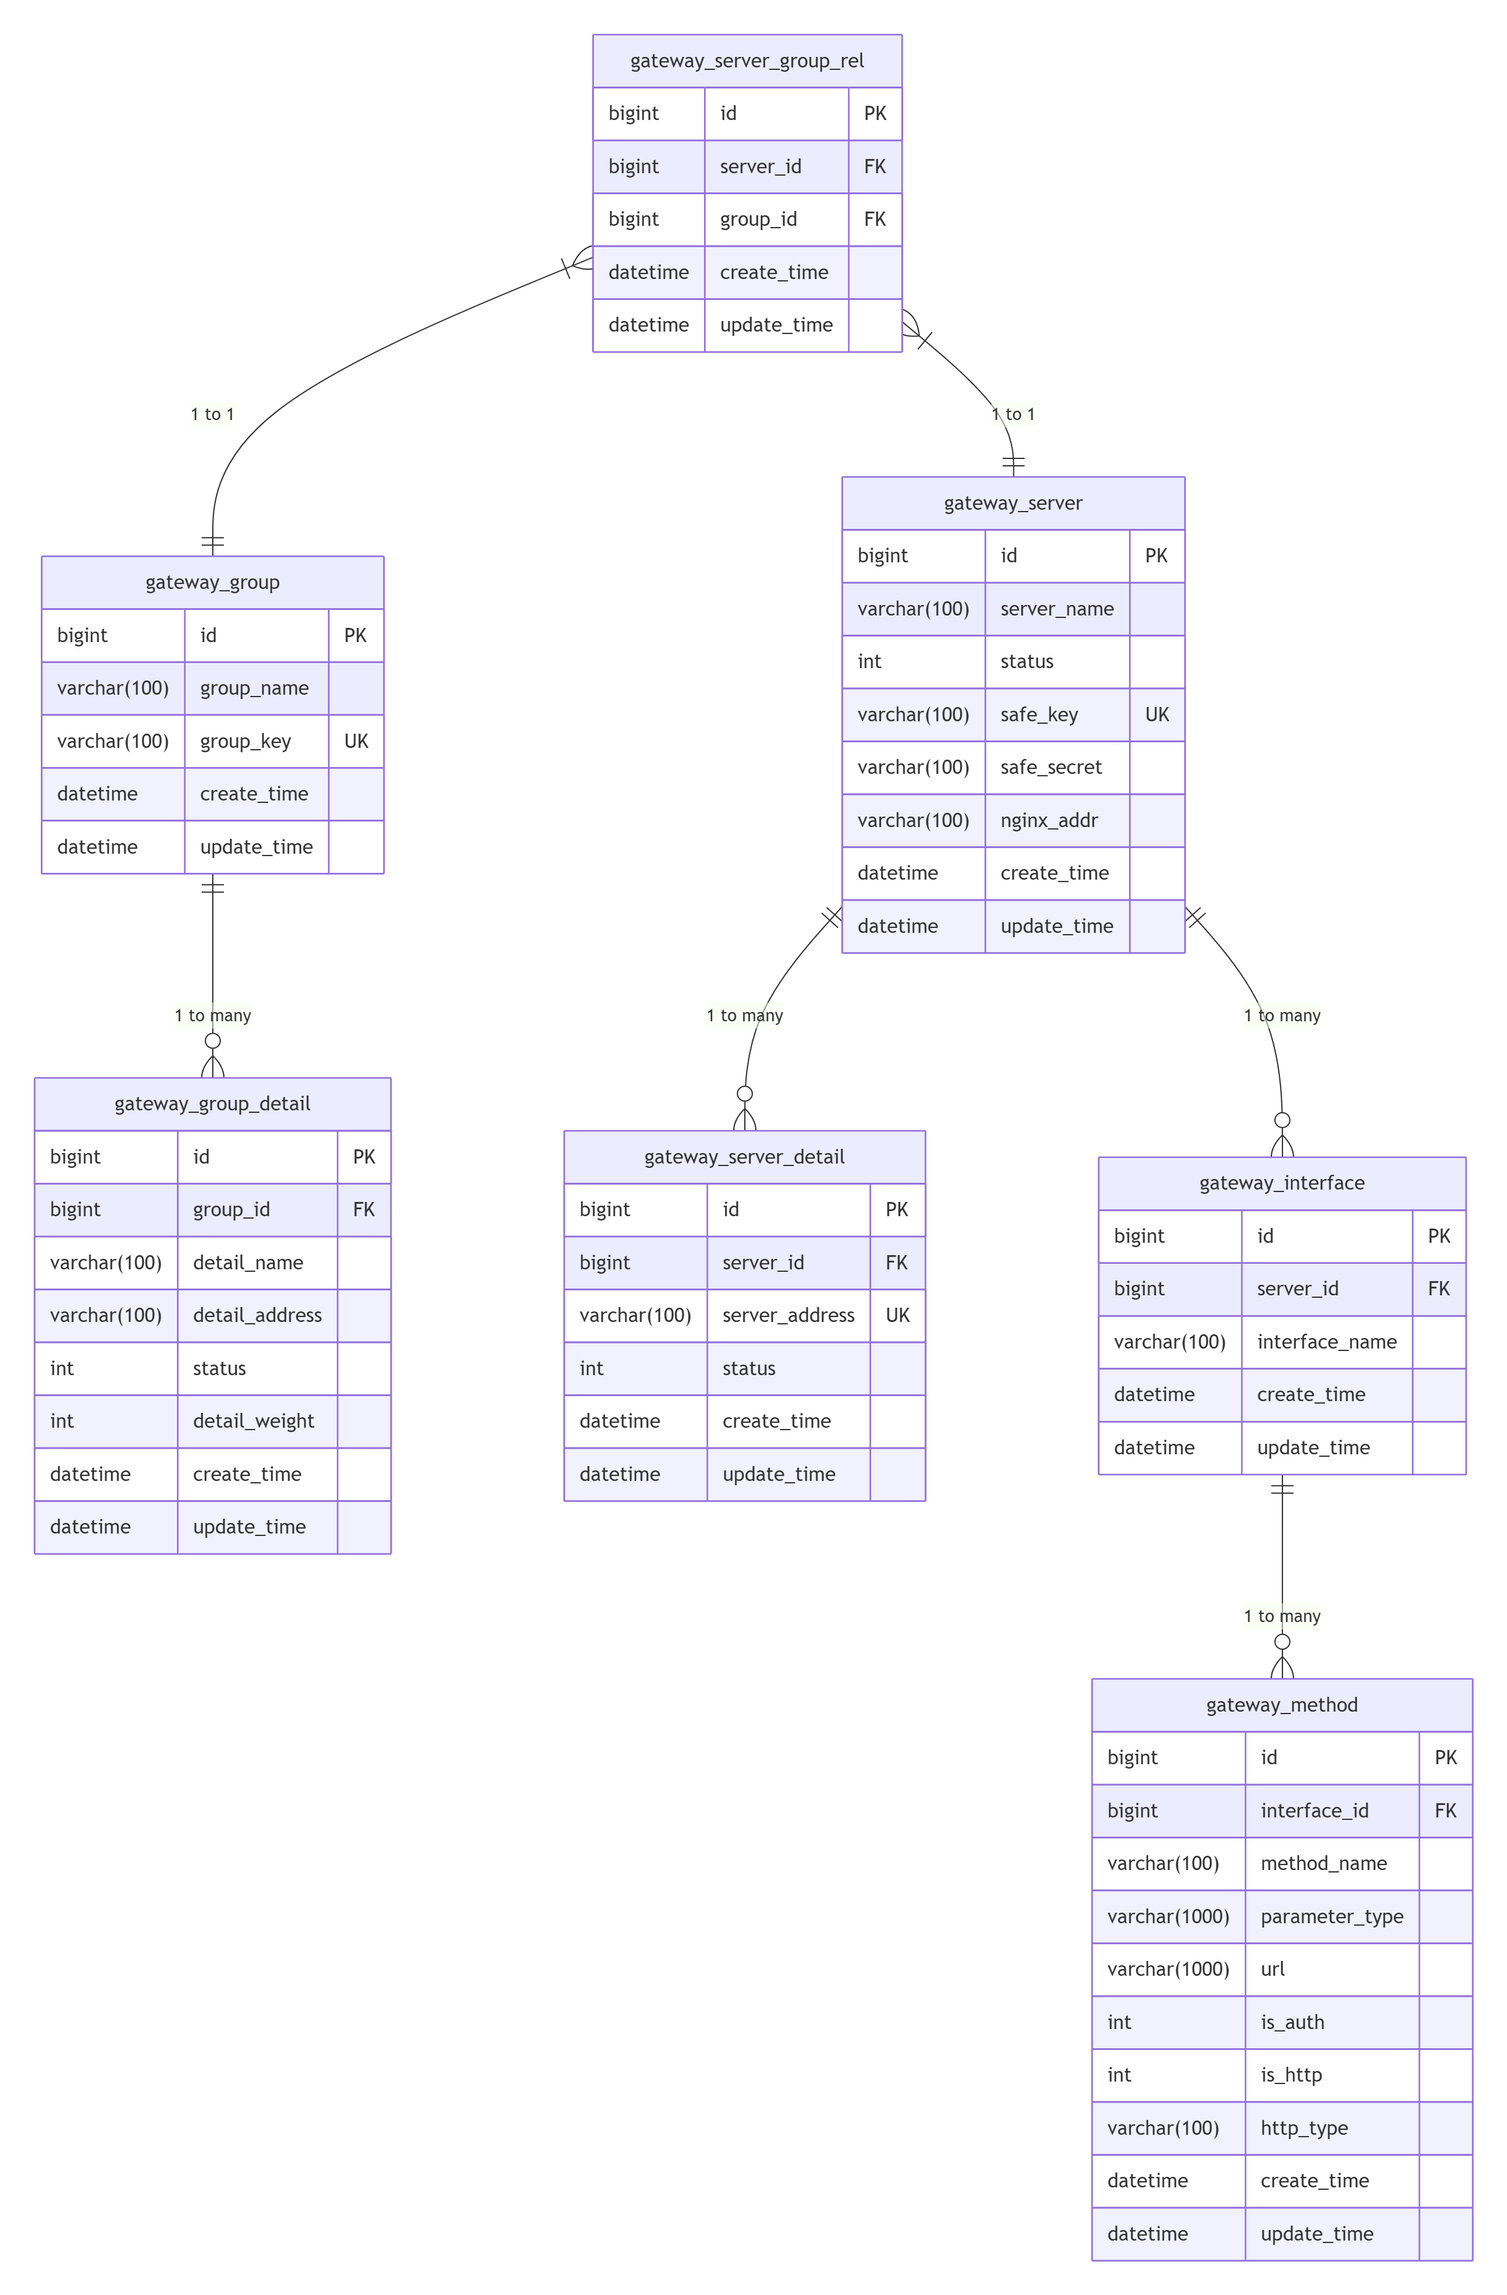
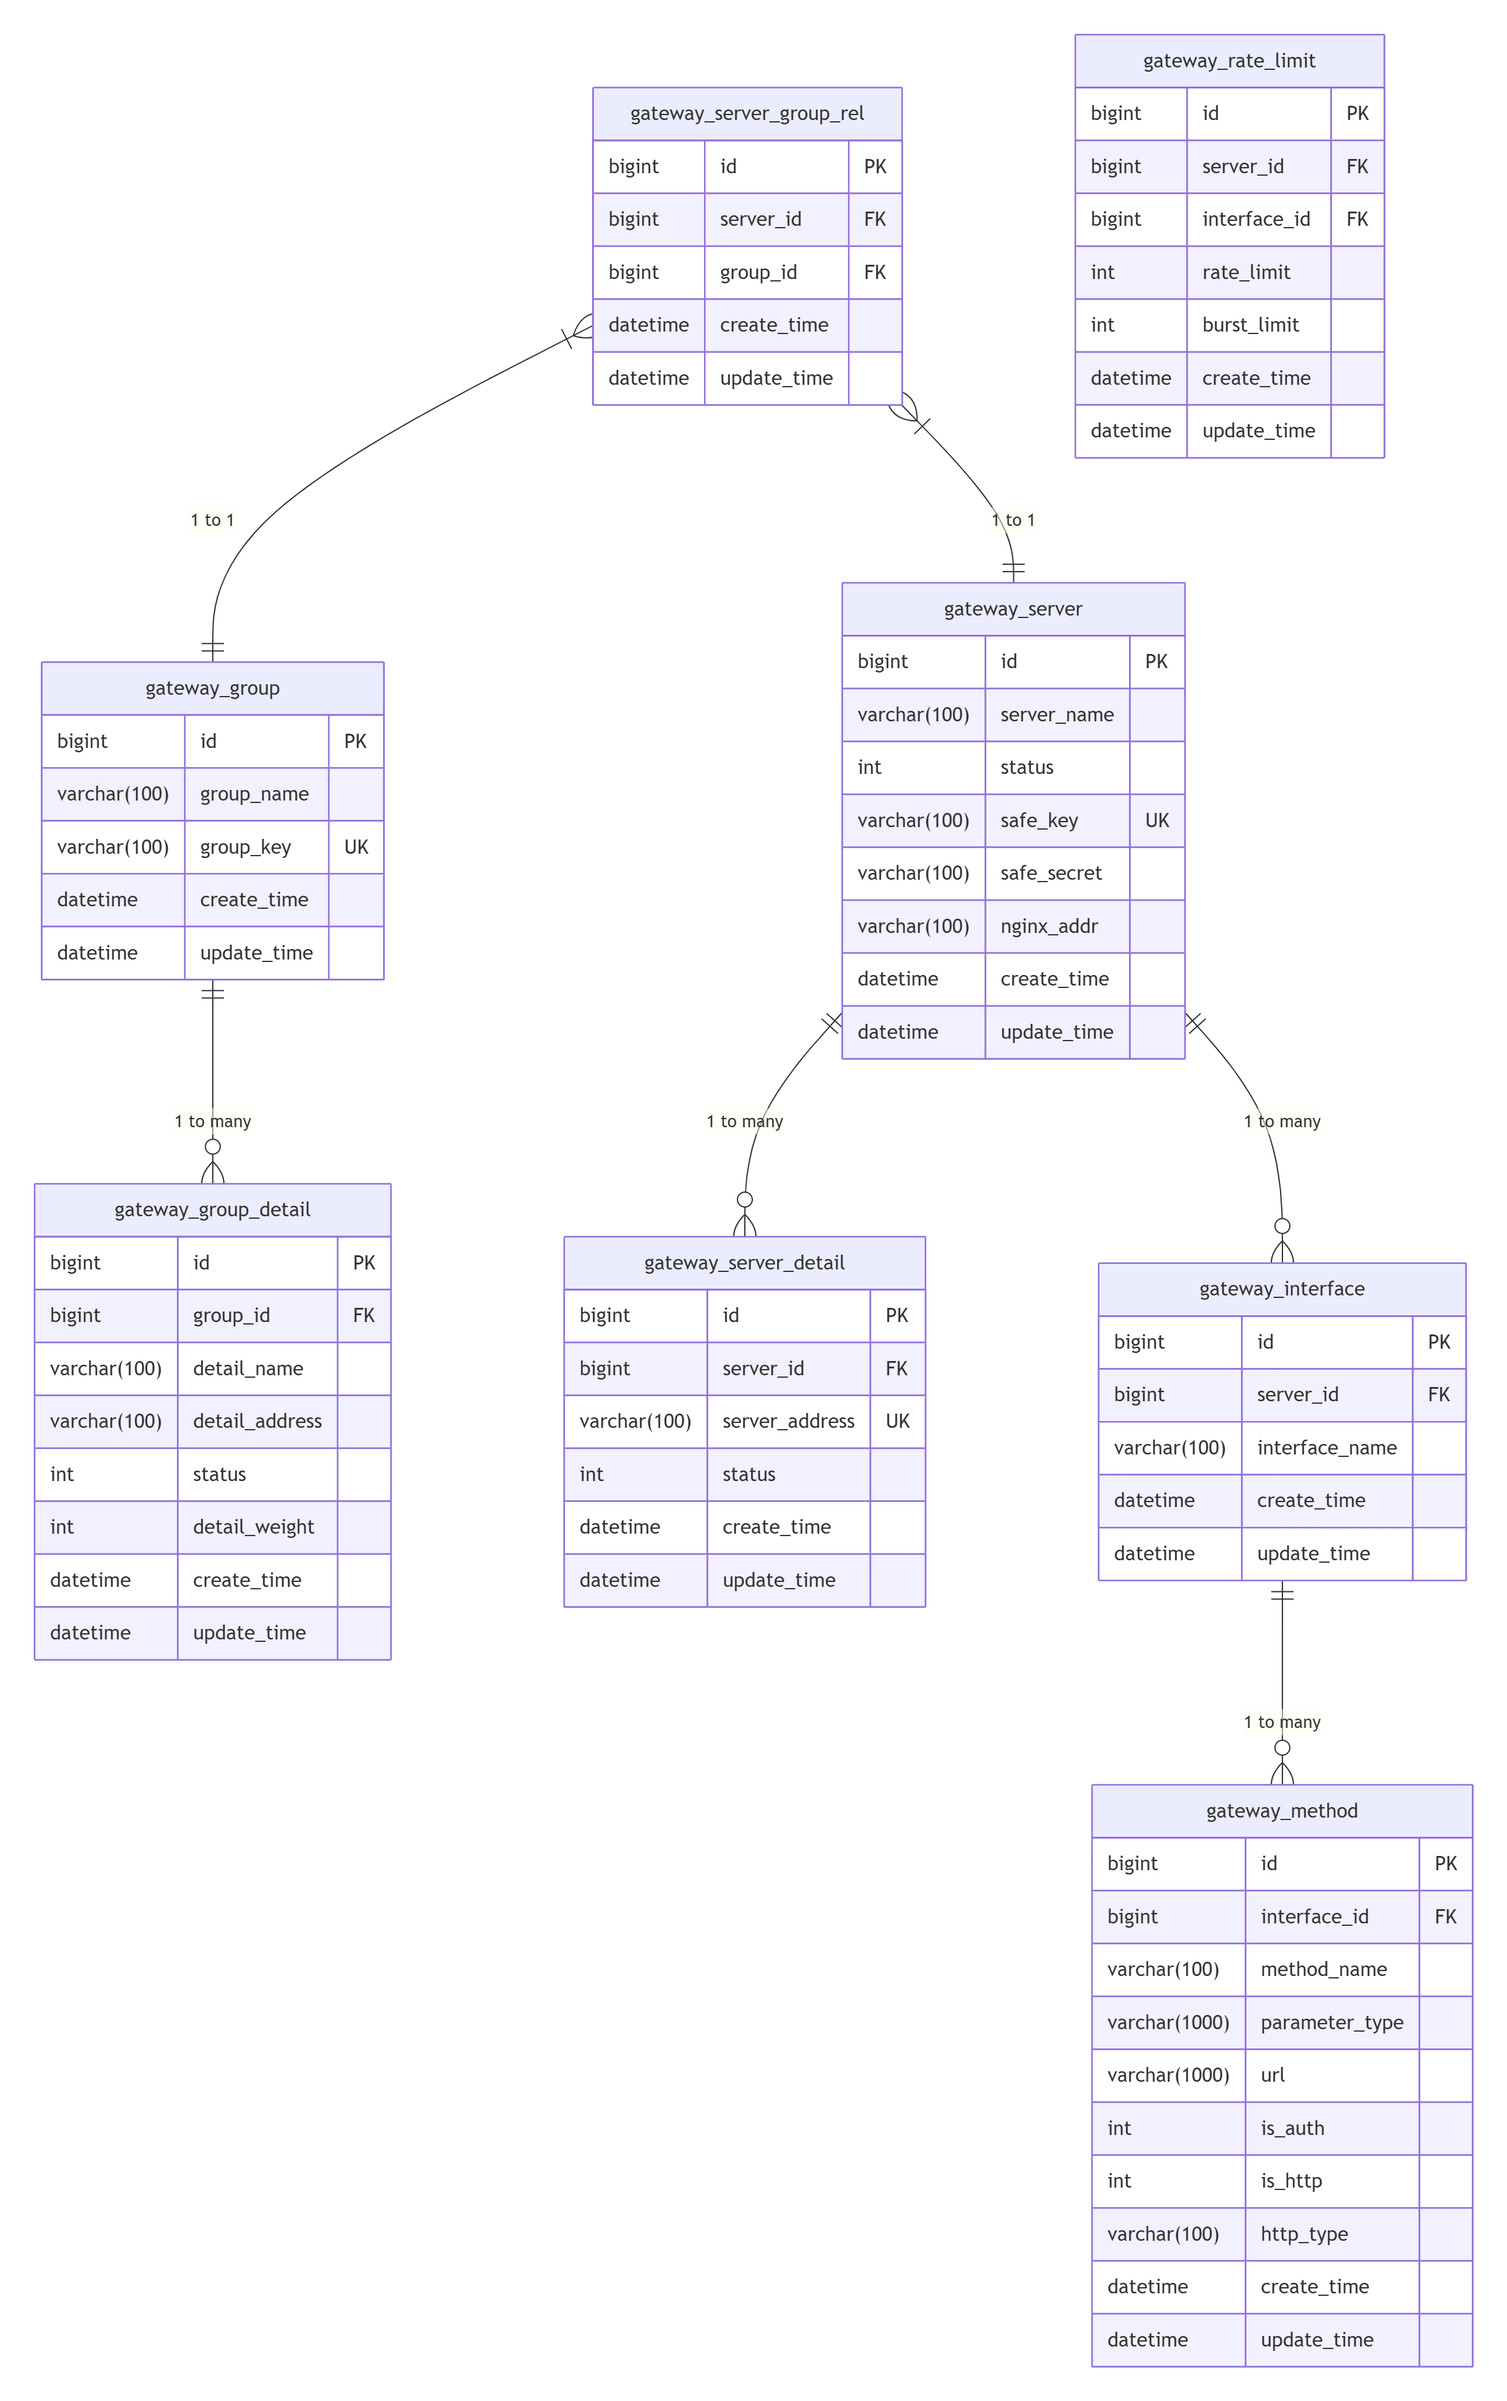
文档修改

diff --git a/docs/表结构设计/表关系图.md b/docs/表结构设计/表关系图.md
@@ -74,5 +74,15 @@ erDiagram
         datetime create_time
         datetime update_time
     }
+
+    gateway_rate_limit {
+        bigint id PK
+        bigint server_id FK
+        bigint interface_id FK
+        int rate_limit
+        int burst_limit
+        datetime create_time
+        datetime update_time
+    }
 ```
 
